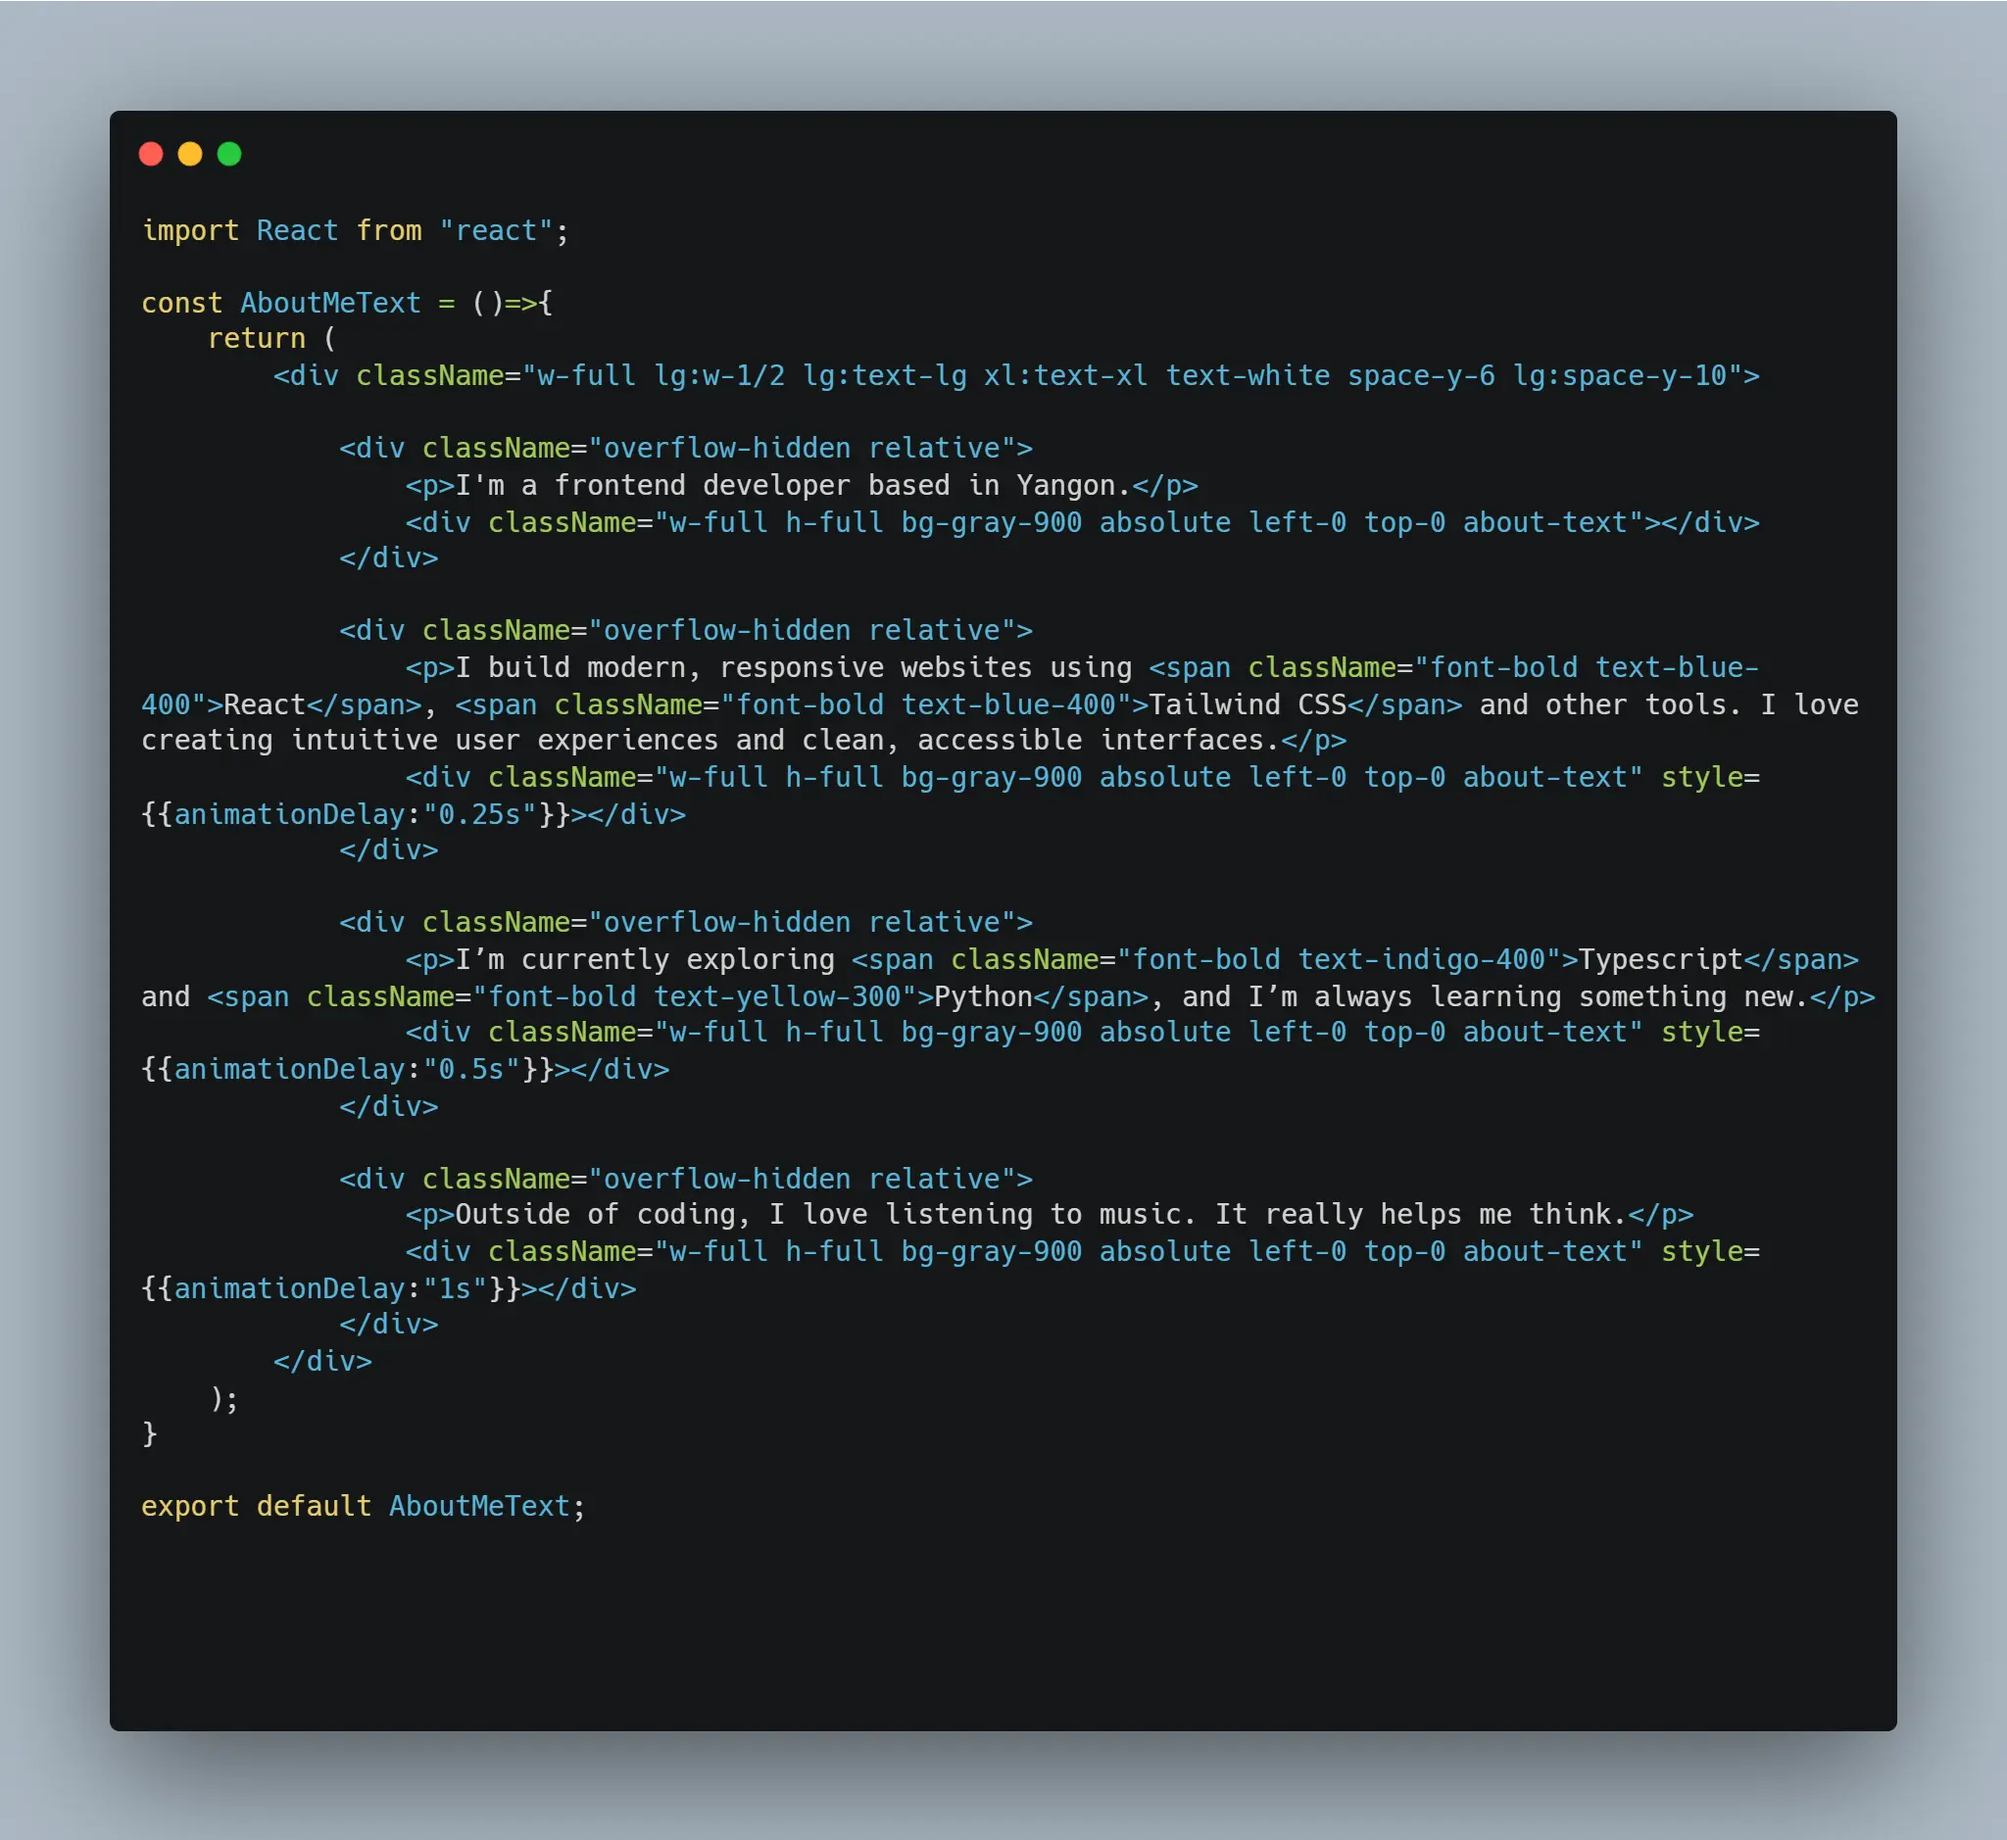
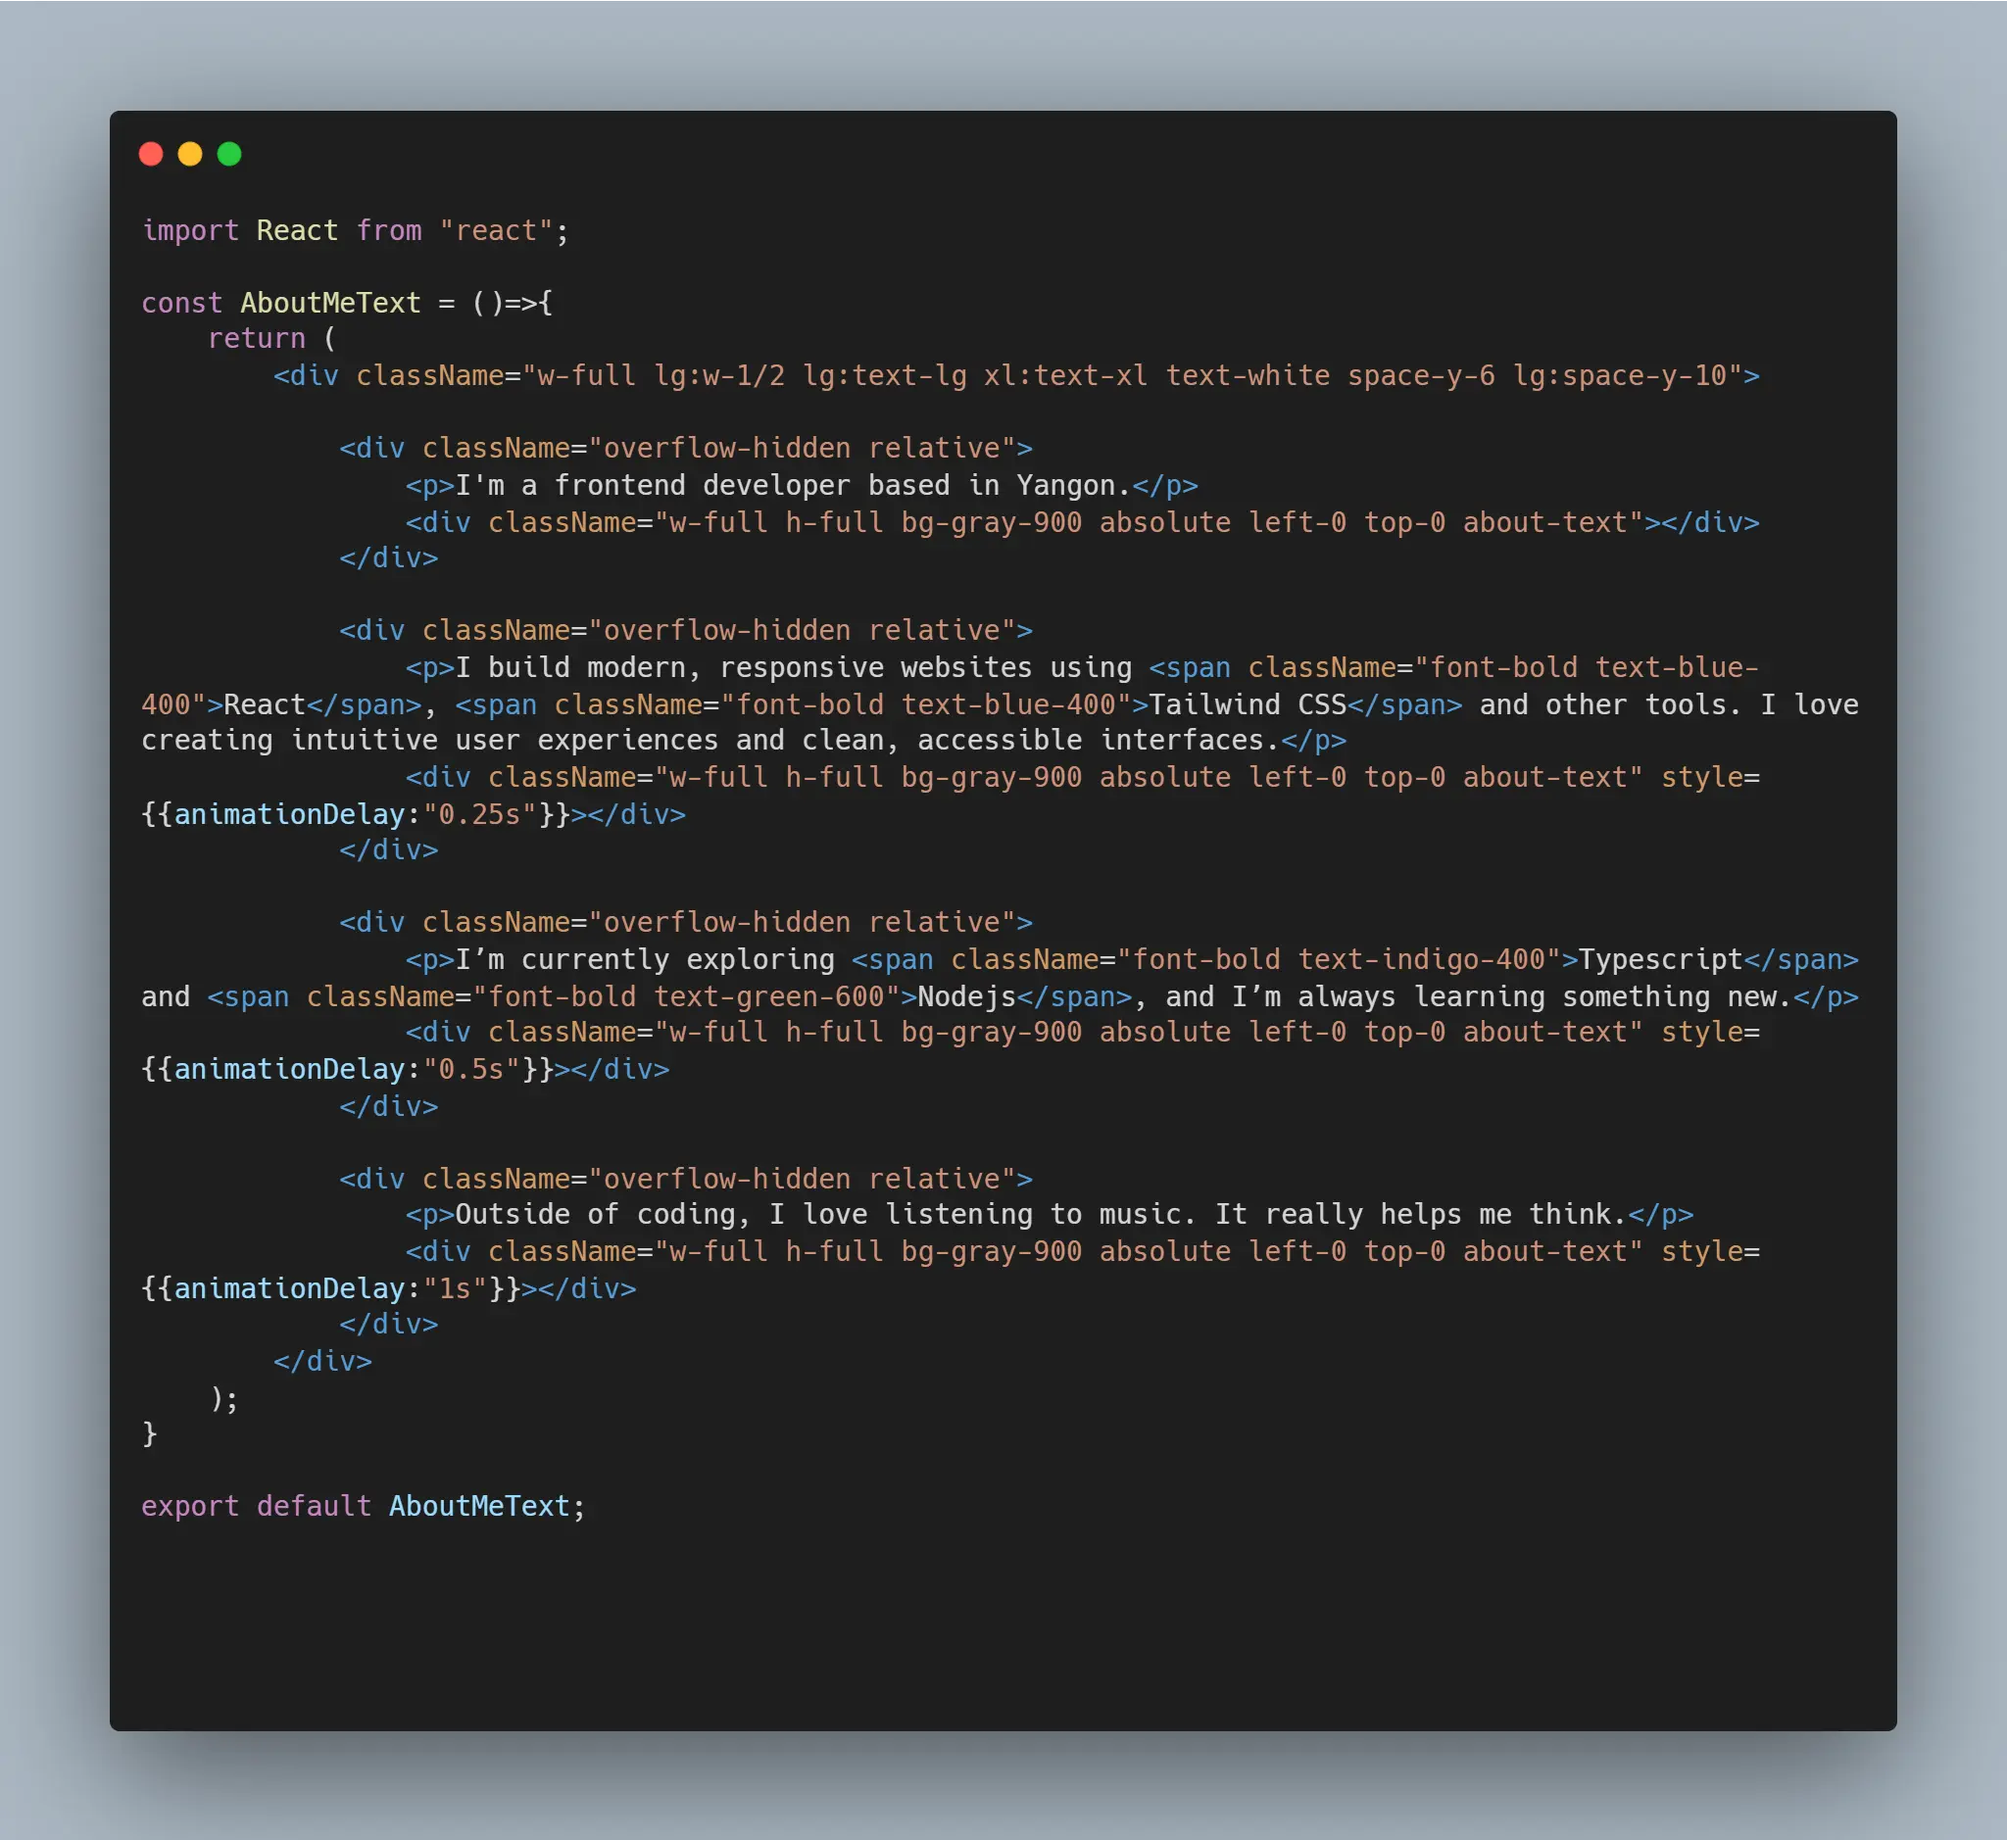
nodejs updated

diff --git a/src/components/AboutMeText.jsx b/src/components/AboutMeText.jsx
@@ -15,7 +15,7 @@ const AboutMeText = ()=>{
             </div>
 
             <div className="overflow-hidden relative">
-                <p>I’m currently exploring <span className="font-bold text-indigo-400">Typescript</span> and <span className="font-bold text-yellow-300">Python</span>, and I’m always learning something new.</p>
+                <p>I’m currently exploring <span className="font-bold text-indigo-400">Typescript</span> and <span className="font-bold text-green-600">Nodejs</span>, and I’m always learning something new.</p>
                 <div className="w-full h-full bg-gray-900 absolute left-0 top-0 about-text" style={{animationDelay:"0.5s"}}></div>
             </div>
 

diff --git a/src/components/ToolkitCard.jsx b/src/components/ToolkitCard.jsx
@@ -37,15 +37,25 @@ export default function ToolkitCard(props){
             hover = "group-hover:shadow-gray-400";
             bg = "bg-gray-300";
             break;
+        case "green":
+            hover = "group-hover:shadow-gray-700";
+            bg = "bg-green-600";
+            break;
     }
 
     switch(percent){
+        case 10:
+            width = "w-[10%]";
+            break;
         case 30:
             width = "w-[30%]";
             break;
         case 45:
             width = "w-[45%]";
             break;
+        case 50:
+            width = "w-[50%]";
+            break;     
         case 55:
             width = "w-[55%]";
             break; 
